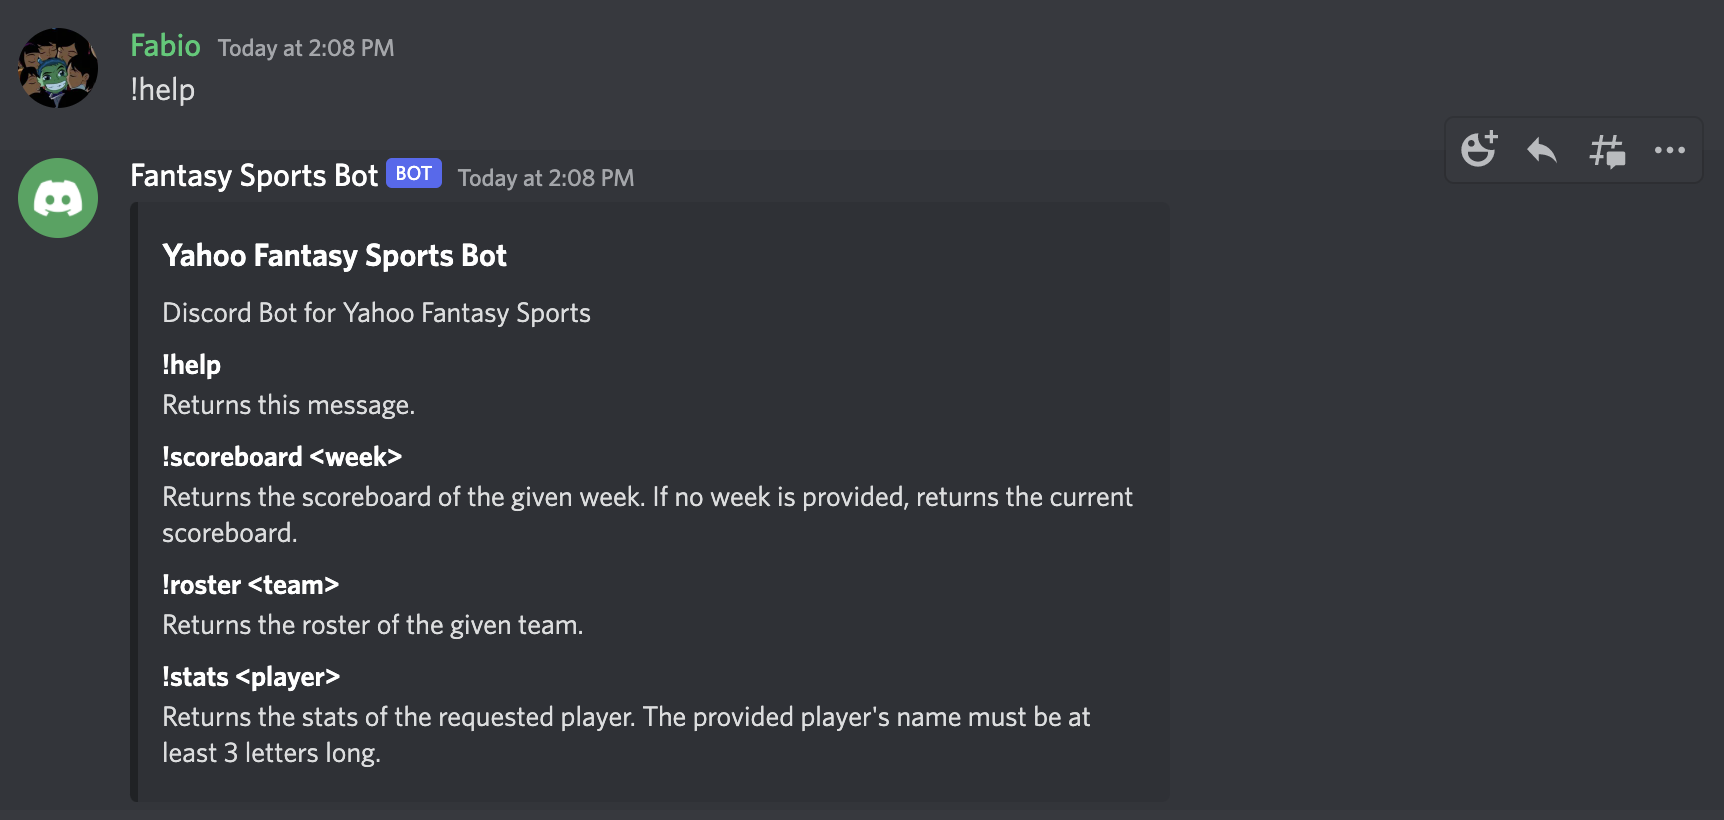
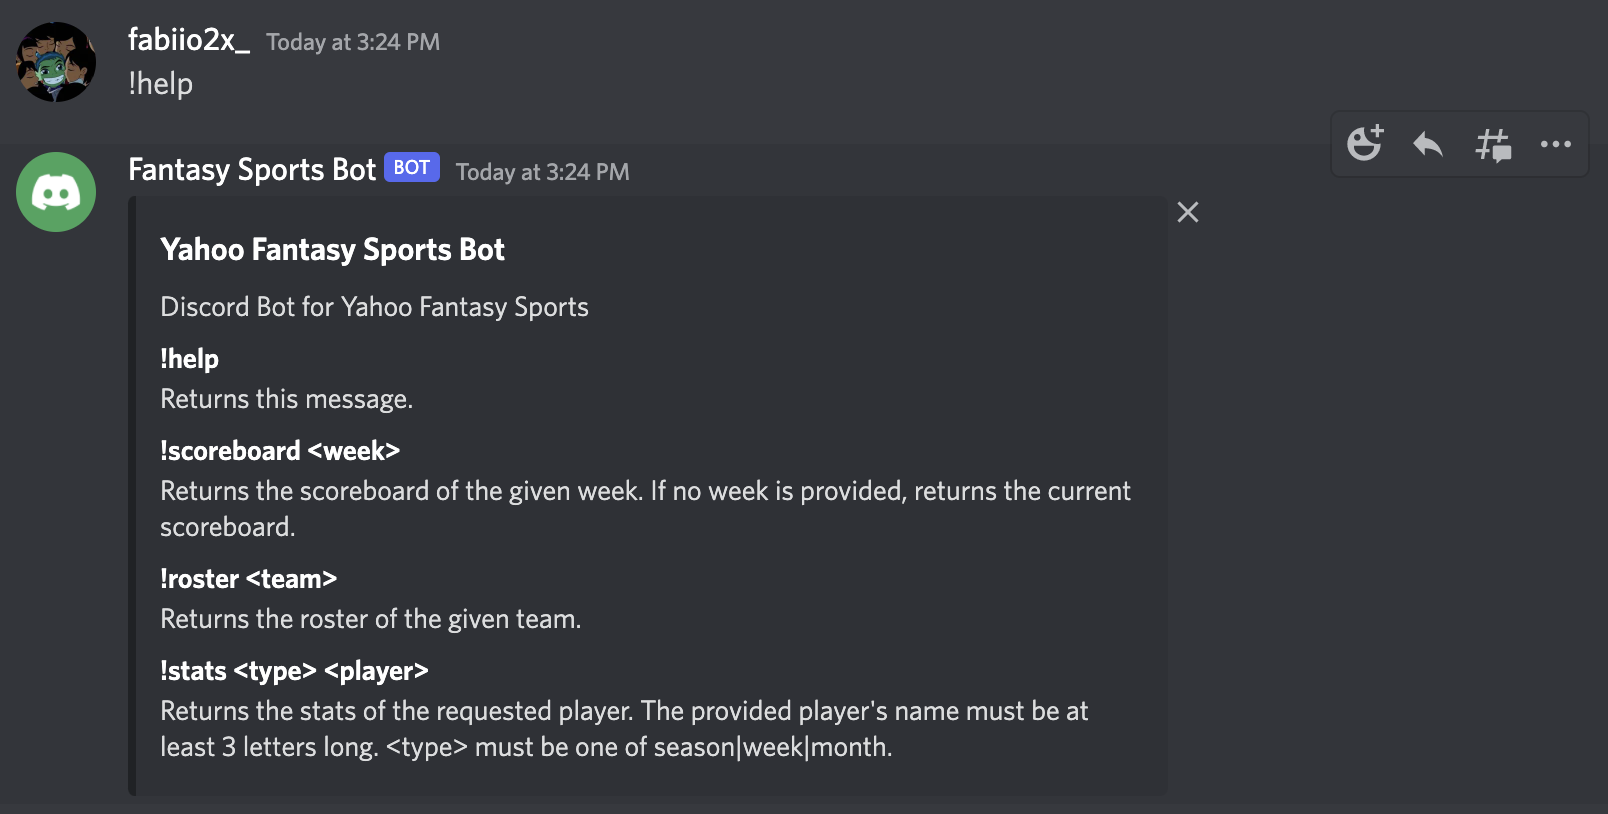
Add type to player stats command

diff --git a/providers/yahoo.go b/providers/yahoo.go
@@ -186,8 +186,23 @@ func formatPlayerStats(player *schema.Player) string {
 }
 
 // PlayerStats returns a formatted string containing the stats for a player.
-func (y *Yahoo) PlayerStats(playerName string) string {
-	p, err := y.yf.PlayerStats(y.leagueKey, playerName)
+func (y *Yahoo) PlayerStats(statsType, playerName string) string {
+	var statsTypeNum int
+	switch statsType {
+	case "season":
+		statsTypeNum = yfantasy.StatsTypeAverageSeason
+		break
+	case "week":
+		statsTypeNum = yfantasy.StatsTypeLastWeekAverage
+		break
+	case "month":
+		statsTypeNum = yfantasy.StatsTypeLastMonthAverage
+		break
+	default:
+		return formatError(fmt.Errorf("invald stats type (%q) requested", statsType))
+	}
+
+	p, err := y.yf.PlayerStats(y.leagueKey, playerName, statsTypeNum)
 	if err != nil {
 		return formatError(err)
 	}
@@ -212,8 +227,8 @@ func (y *Yahoo) Help() *discordgo.MessageEmbed {
 		&discordgo.MessageEmbedField{Name: "!roster <team>", Value: "Returns the roster of the given team."})
 	embed.Fields = append(embed.Fields,
 		&discordgo.MessageEmbedField{
-			Name:  "!stats <player>",
-			Value: "Returns the stats of the requested player. The provided player's name must be at least 3 letters long.",
+			Name:  "!stats <type> <player>",
+			Value: "Returns the stats of the requested player. The provided player's name must be at least 3 letters long. <type> must be one of season|week|month.",
 		})
 	return embed
 }

diff --git a/bot/handlers/message_create.go b/bot/handlers/message_create.go
@@ -35,8 +35,12 @@ func CreateMessageCreateHandler(p providers.MessageCreateProvider) func(s *disco
 		}
 
 		if strings.HasPrefix(m.Content, "!stats ") {
-			name := strings.TrimPrefix(m.Content, "!stats ")
-			s.ChannelMessageSend(m.ChannelID, p.PlayerStats(name))
+			args := strings.TrimPrefix(m.Content, "!stats ")
+			splitArgs := strings.Split(args, " ")
+			if (len(splitArgs)) < 2 {
+				s.ChannelMessageSend(m.ChannelID, "Error: invald !stats usage. See !help for usage.")
+			}
+			s.ChannelMessageSend(m.ChannelID, p.PlayerStats(splitArgs[0], strings.Join(splitArgs[1:], " ")))
 		}
 
 		if m.Content == "!help" {

diff --git a/providers/providers.go b/providers/providers.go
@@ -8,6 +8,6 @@ type MessageCreateProvider interface {
 	Scoreboard(week int) string
 	Standings() string
 	Roster(teamName string) string
-	PlayerStats(playerName string) string
+	PlayerStats(statsType, playerName string) string
 	Help() *discordgo.MessageEmbed
 }
